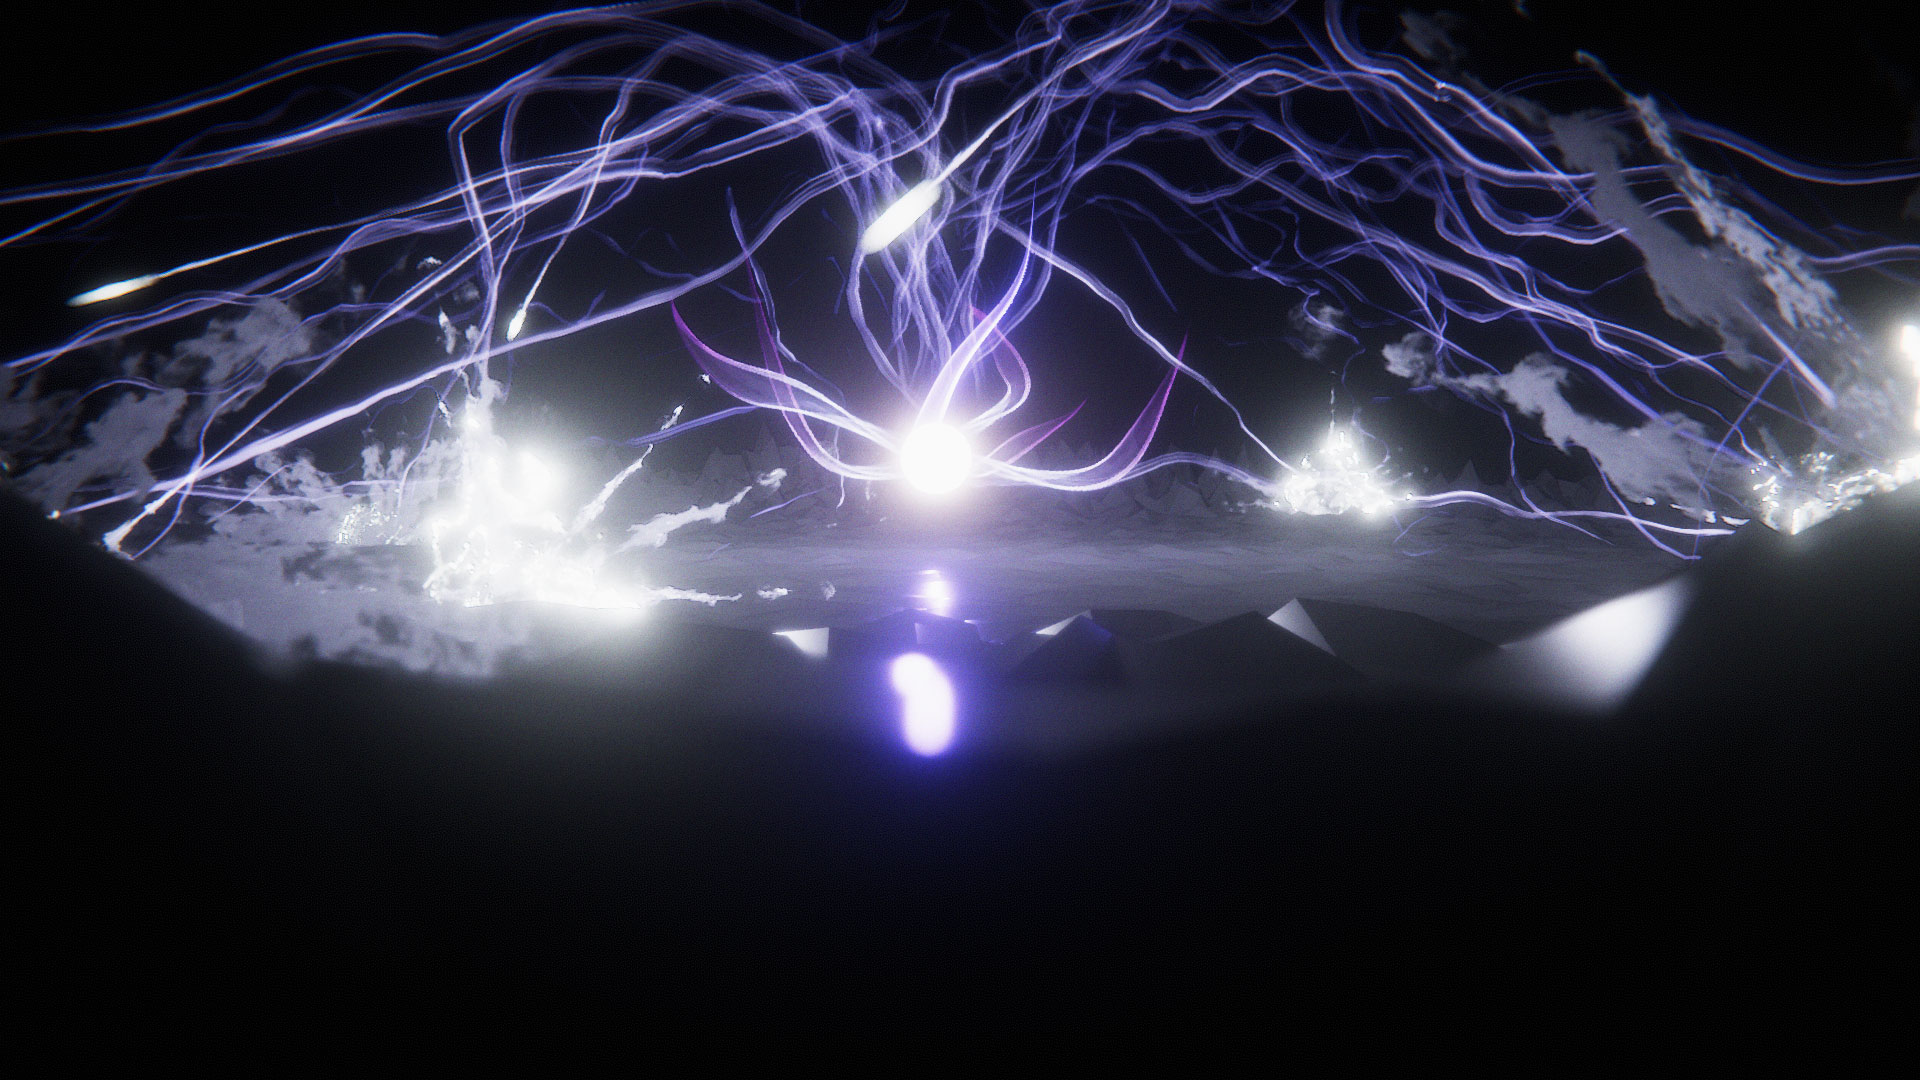
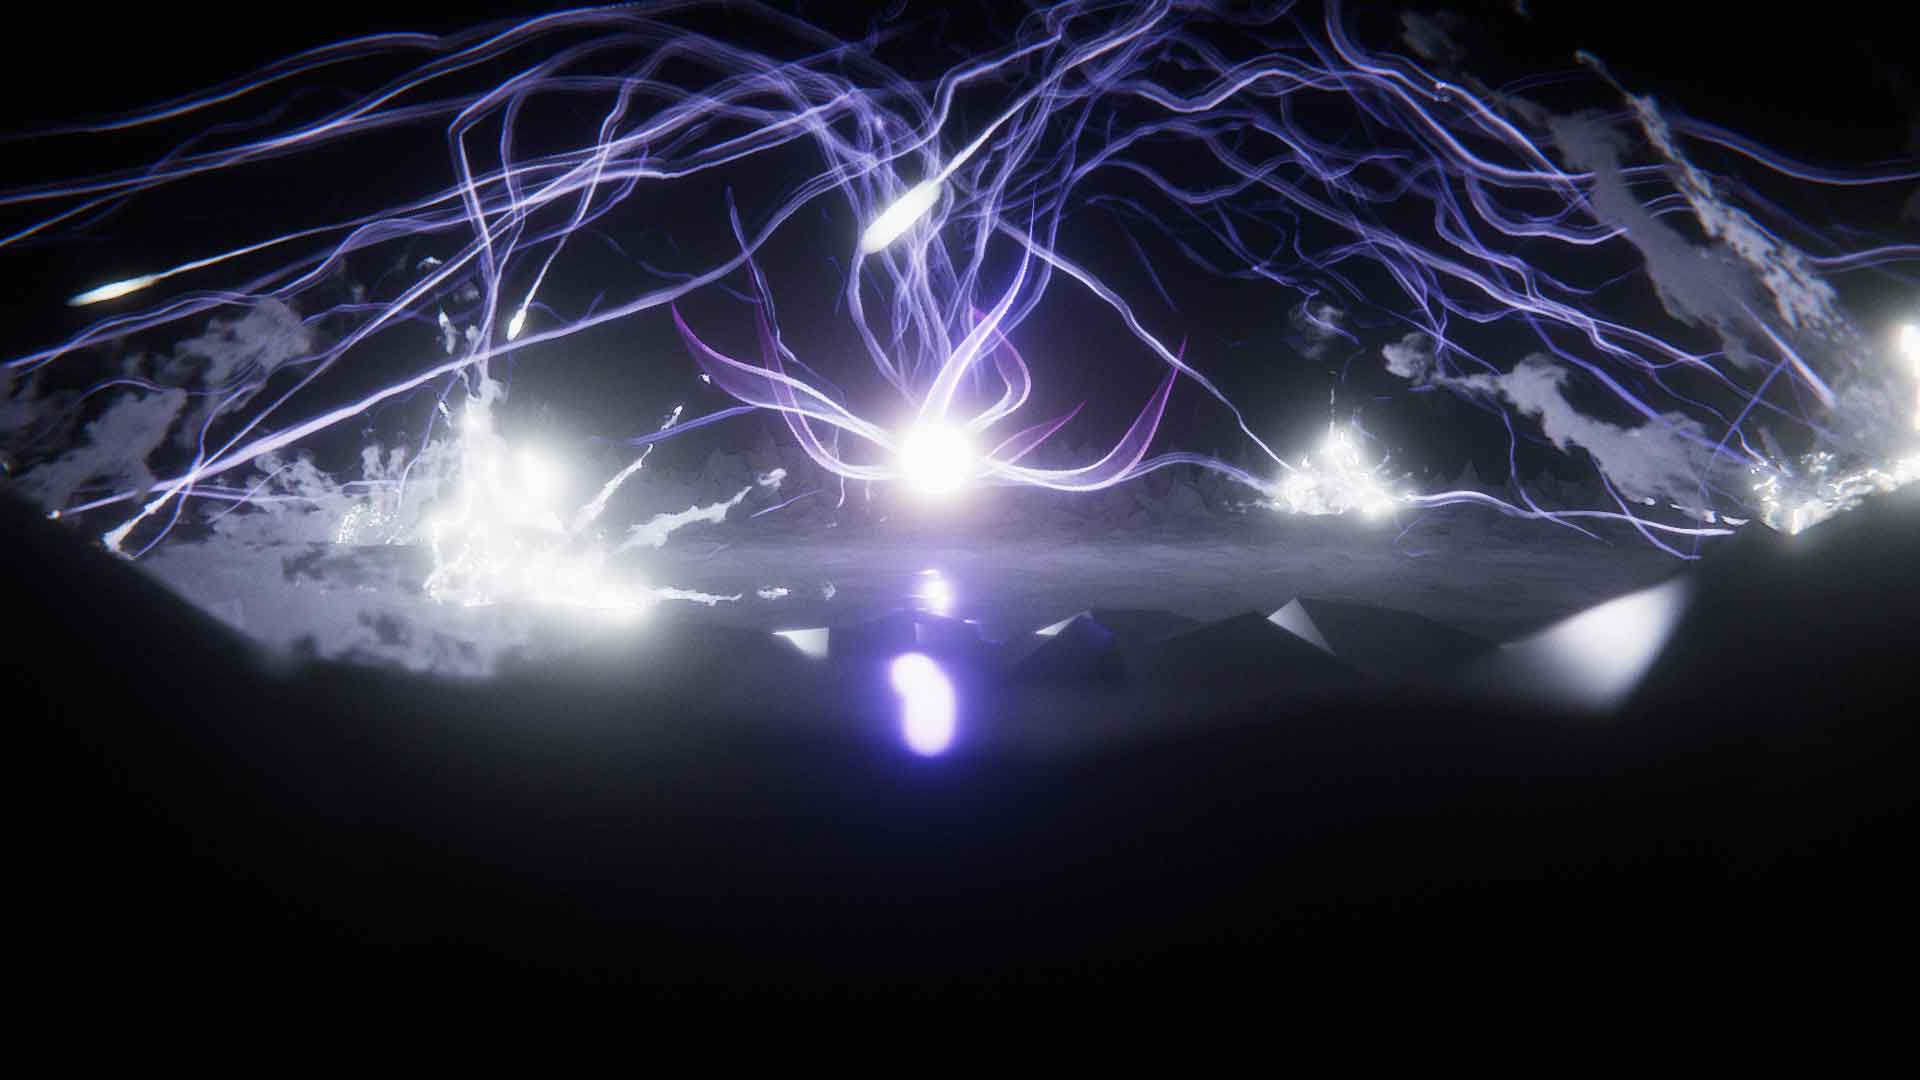
png to jpg changes

diff --git a/css/styles.css b/css/styles.css
@@ -126,27 +126,27 @@ p{
 
 
 .test2{
-	background-image: linear-gradient(0deg, rgba(0, 0, 0, .8), rgba(0, 0, 0, 0.9)), url(/element-x/images/2.png);
+	background-image: linear-gradient(0deg, rgba(0, 0, 0, .75), rgba(0, 0, 0, 0.75)), url(/element-x/images/2.jpg);
 }
 
 .test3{
-	background-image: linear-gradient(0deg, rgba(0, 0, 0, 0.55), rgba(0, 0, 0, 1)), url(/element-x/images/3.png);
+	background-image: linear-gradient(0deg, rgba(0, 0, 0, 0.55), rgba(0, 0, 0, 1)), url(/element-x/images/3.jpg);
 }
 
 .test4{
-	background-image: linear-gradient(0deg, rgba(0, 0, 0, 0.5), rgba(0, 0, 0, 0.8)), url(/element-x/images/4.png);
+	background-image: linear-gradient(0deg, rgba(0, 0, 0, 0.5), rgba(0, 0, 0, 0.8)), url(/element-x/images/4.jpg);
 }
 
 .test5{
-	background-image: linear-gradient(0deg, rgba(0, 0, 0, 0.7), rgba(0, 0, 0, 0.55)), url(/element-x/images/5.png);
+	background-image: linear-gradient(0deg, rgba(0, 0, 0, 0.7), rgba(0, 0, 0, 0.55)), url(/element-x/images/5.jpg);
 }
 
 .test6{
-	background-image: linear-gradient(0deg, rgba(0, 0, 0, 0.9), rgba(0, 0, 0, 0.75)), url(/element-x/images/6.png);
+	background-image: linear-gradient(0deg, rgba(0, 0, 0, 0.9), rgba(0, 0, 0, 0.75)), url(/element-x/images/6.jpg);
 }
 
 .test7{
-	background-image: linear-gradient(0deg, rgba(0, 0, 0, 0.9), rgba(0, 0, 0, 0.75)), url(/element-x/images/7.png);
+	background-image: linear-gradient(0deg, rgba(0, 0, 0, 0.9), rgba(0, 0, 0, 0.75)), url(/element-x/images/7.jpg);
 }
 
 
